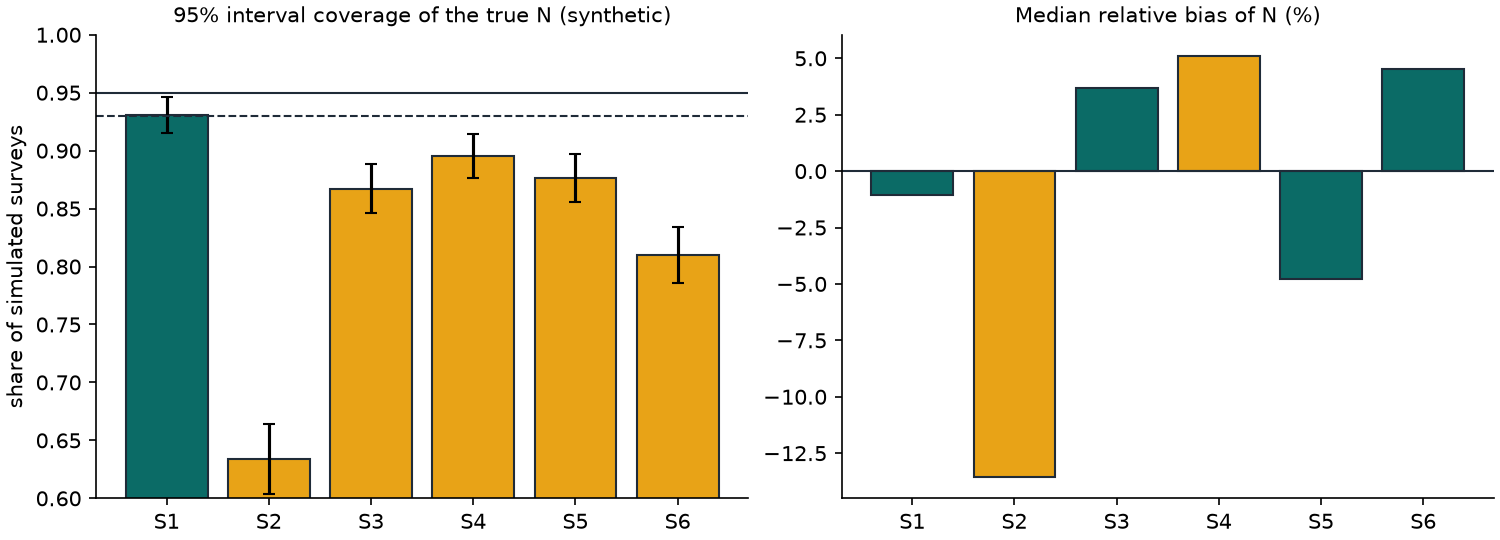
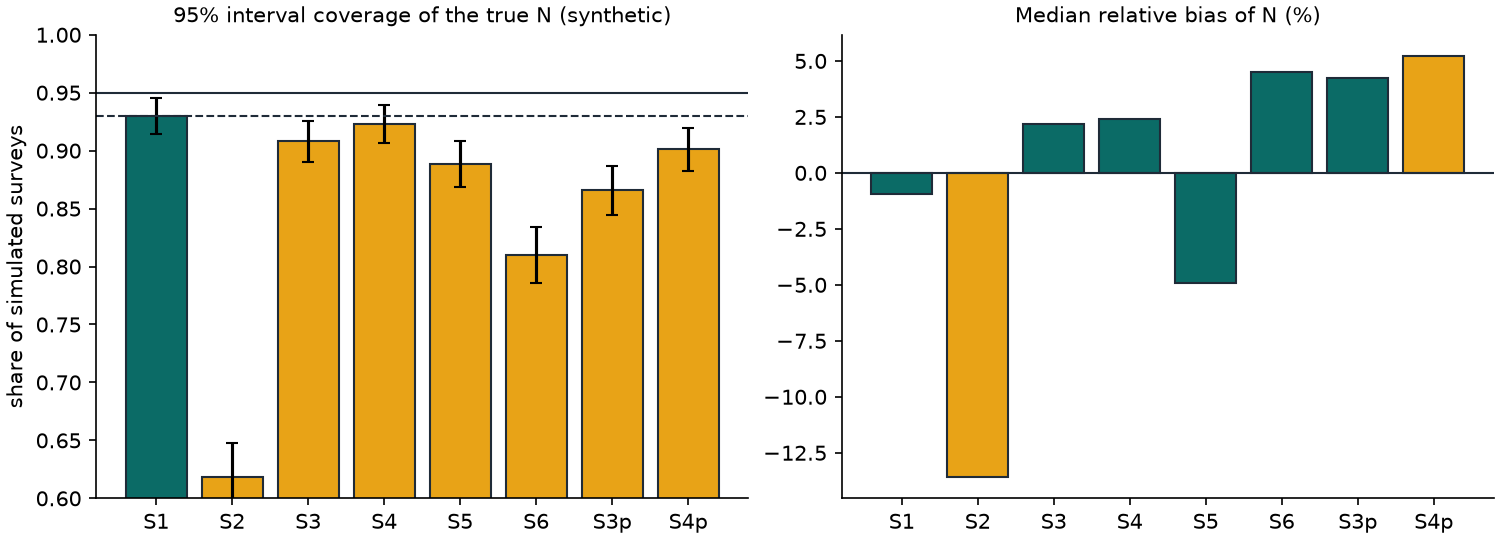
fix: worker backoff, clearer report text, re-ID benchmark results, validation refresh
- Worker loop backs off exponentially on errors and logs one line per streak
  (an overnight network outage produced thousands of identical tracebacks)
- Report says plainly when no ears have been checked instead of "0 of the 0"
- Review screen distance text without a stray space
- docs/REID_BENCHMARK.md: real identity-labelled dog photos (MPDD, DogFaceNet)
  on Kaggle; DINOv2 int8 AUC 0.988 whole-body, 0.993 faces, within 0.001 of fp32
- docs/ESTIMATOR_VALIDATION.md regenerated with the assignment sampler and the
  pairwise sampler side by side; DECISIONS D-21 to D-24; LIMITATIONS updated
- Screens capture spec and demo seed script fixes

diff --git a/apps/web/screens/screens.spec.ts b/apps/web/screens/screens.spec.ts
@@ -1,0 +1,50 @@
+import { test, type Page } from '@playwright/test';
+
+/** Full-page screenshots of every screen at phone and desktop width, from real data. */
+const out = '../../docs/screens';
+const env = (k: string) => {
+	const v = process.env[k];
+	if (!v) throw new Error(`set ${k}`);
+	return v;
+};
+
+const sizes = [
+	{ name: '375', width: 375, height: 812 },
+	{ name: '1280', width: 1280, height: 900 }
+];
+
+async function shot(page: Page, path: string, file: string, waitFor?: string) {
+	await page.goto(path);
+	if (waitFor) await page.getByText(waitFor, { exact: false }).first().waitFor({ timeout: 60_000 });
+	// Photos come through signed links from the database; wait until every image has loaded.
+	await page.waitForFunction(() => [...document.images].every((i) => i.complete && i.naturalWidth > 0), null, {
+		timeout: 60_000
+	});
+	await page.waitForTimeout(3000); // the route-strip animation runs about 2.5 s
+	await page.screenshot({ path: `${out}/${file}`, fullPage: true });
+}
+
+for (const size of sizes) {
+	test(`screens at ${size.name}px`, async ({ browser }) => {
+		const ctx = await browser.newContext({ viewport: { width: size.width, height: size.height } });
+		const page = await ctx.newPage();
+		const survey = env('SCREENS_SURVEY');
+		const slug = env('SCREENS_SLUG');
+		await shot(page, '/', `landing-${size.name}.png`, 'Count the dogs');
+		await shot(page, `/r/${slug}`, `report-${size.name}.png`, 'dogs use this route');
+		await page.goto(`/join#${env(size.name === '375' ? 'SCREENS_INVITE_A' : 'SCREENS_INVITE_B')}`);
+		await page.waitForURL('**/app');
+		await shot(page, '/app', `home-${size.name}.png`, 'Demo survey');
+		await shot(page, `/app/survey/${survey}`, `survey-${size.name}.png`, 'dogs use this route');
+		await shot(page, `/app/survey/${survey}/check/pairs`, `label-pairs-${size.name}.png`, 'Same dog');
+		await shot(page, `/app/survey/${survey}/check/ears`, `label-ears-${size.name}.png`, 'Notched');
+		await shot(page, `/app/survey/${survey}/check/review`, `review-${size.name}.png`, 'Review queue');
+		await shot(page, `/app/survey/${survey}/case`, `case-${size.name}.png`, 'Case file');
+		await shot(page, `/app/team/${env('SCREENS_TEAM')}`, `team-${size.name}.png`, 'People');
+		await shot(page, '/app/protocol', `field-card-${size.name}.png`, 'Field card');
+		if (size.name === '375') {
+			await shot(page, `/app/capture/${survey}/3`, `capture-${size.name}.png`, 'dogs this pass');
+		}
+		await ctx.close();
+	});
+}

diff --git a/apps/web/src/lib/components/PairReview.svelte b/apps/web/src/lib/components/PairReview.svelte
@@ -8,6 +8,15 @@
 		onanswer
 	}: { item: PairItem; onanswer: (decision: 'same' | 'different' | 'unsure') => void } = $props();
 
+	const distance = $derived(
+		[
+			item.route_m !== null ? t('review.apart', { m: item.route_m }) : null,
+			item.a.pass_no === item.b.pass_no ? t('review.minutes', { m: Math.round(item.minutes_apart) }) : null
+		]
+			.filter(Boolean)
+			.join(', ')
+	);
+
 	const time = (iso: string) => new Date(iso).toLocaleTimeString(undefined, { hour: '2-digit', minute: '2-digit' });
 
 	function onkey(e: KeyboardEvent) {
@@ -30,12 +39,7 @@
 		<img src={item.b.url} alt="Dog photo B, pass {item.b.pass_no}" />
 		<figcaption>{t('review.passAt', { n: item.b.pass_no, time: time(item.b.taken_at) })}</figcaption>
 	</figure>
-	<p class="gap">
-		{#if item.route_m !== null}{t('review.apart', { m: item.route_m })}{/if}
-		{#if item.a.pass_no === item.b.pass_no}
-			{item.route_m !== null ? ', ' : ''}{t('review.minutes', { m: Math.round(item.minutes_apart) })}
-		{/if}
-	</p>
+	<p class="gap">{distance}</p>
 </div>
 
 <div class="answers">

diff --git a/apps/web/screens/playwright.screens.config.ts b/apps/web/screens/playwright.screens.config.ts
@@ -1,0 +1,13 @@
+import { defineConfig } from '@playwright/test';
+
+// Captures docs/screens at 375 and 1280 px from a running deployment (see screens/screens.spec.ts).
+export default defineConfig({
+	testDir: '.',
+	timeout: 180_000,
+	use: {
+		baseURL: process.env.SCREENS_BASE_URL,
+		permissions: ['camera', 'geolocation'],
+		geolocation: { latitude: 28.61355, longitude: 77.2112, accuracy: 6 },
+		launchOptions: { args: ['--use-fake-device-for-media-stream', '--use-fake-ui-for-media-stream'] }
+	}
+});

diff --git a/sim/run.py b/sim/run.py
@@ -175,27 +175,32 @@ def report(
         "in both passes, so recaptures run high and Chapman runs low. This is a property of the "
         "two-sample method, not of the code, and it is why the report calls the estimate a likely lower "
         "bound.",
-        "S3": "Modelling helps (the same matcher with hard decisions, S6, covers less) but does not reach "
-        "0.93. Why: an ambiguous true match scores like a decoy, so its calibrated pairwise probability is "
-        "small (about 0.02 here) and it is rarely drawn. Calibration puts the missing probability on "
-        "look-alike decoys instead, but the one-to-one repair throws most of that away, because those "
-        "decoys' pass-2 dogs already have clear matches. So m2 runs low and N runs high. The fix is an "
-        "assignment-level model (each pass-2 dog picks one candidate or none, with the recapture rate "
-        "estimated jointly). It is not implemented yet; see docs/LIMITATIONS.md.",
-        "S4": "A look-alike scored above 0.5 can win the one-to-one repair and push out the true partner, "
-        "so a wrong merge often costs a right one. Net m2 falls and N rises, the opposite of what one wrong "
-        "merge alone would do. The sampler sometimes rejects the look-alike, which widens the range, but not "
-        "enough.",
+        "S3": "One in twenty true matches scores like a look-alike. The assignment sampler lets each walk-2 dog "
+        "choose one candidate or none, with likelihood ratios recovered from the calibrated probabilities and "
+        "the recapture rate solved jointly, so a weak true match keeps its probability instead of losing it "
+        "in a one-to-one repair. That lifts coverage well above the BIBLE pairwise sampler on the same data "
+        "(S3p) and halves the bias, but it is still about 0.02 short of the 0.93 target: a small upward bias "
+        "remains because some missed true matches stay missed.",
+        "S4": "One in twenty walk-2 dogs has a look-alike scored above 0.5. The assignment sampler sometimes picks "
+        "the look-alike and sometimes the true partner, and that choice is carried into the range. Coverage is "
+        "within Monte Carlo error of the 0.93 target and above the pairwise sampler (S4p).",
         "S5": "Few recaptures: the Chapman variance and the log-normal interval are rough at small m2, so "
         "coverage drops and ranges are wide. Some surveys have too few matches to estimate at all.",
         "S6": "The same matcher as S3, but every pair is decided at 0.5 and fed to plain Chapman. Missed "
         "matches lower m2 and inflate N, and the interval knows nothing about it. This is what NotchCount "
         "would report without the sampler.",
+        "S3p": "S3 data with the BIBLE 3.4 pairwise sampler (independent pair draws, then greedy one-to-one "
+        "repair), kept for comparison. Calibration moves a weak true match's probability onto look-alikes, "
+        "and the repair discards most of it because those look-alikes already have clear partners.",
+        "S4p": "S4 data with the pairwise sampler, for comparison.",
     }
-    for sid in ("S1", "S2", "S3", "S4", "S5", "S6"):
+    for sid in ("S1", "S2", "S3", "S4", "S5", "S6", "S3p", "S4p"):
         r = by[sid]
         cov = float(r["coverage_N"])  # type: ignore[arg-type]
-        verdict = "meets" if cov >= 0.93 else "falls below"
+        band = 1.96 * float(r["coverage_N_mc_se"])  # type: ignore[arg-type]
+        verdict = (
+            "meets" if cov >= 0.93 else "within Monte Carlo error of" if cov + band >= 0.93 else "falls below"
+        )
         lines.append(f"- **{sid}** ({verdict} 0.93, coverage {cov:.3f}). {notes[sid]}")
     lines += [
         "",

diff --git a/services/worker/src/notchcount_worker/runner.py b/services/worker/src/notchcount_worker/runner.py
@@ -59,13 +59,27 @@ async def run_once(worker_id: str, handlers: dict[str, Handler]) -> bool:
     return True
 
 
+MAX_BACKOFF_SECONDS = 60.0
+
+
 async def _loop(worker_id: str, handlers: dict[str, Handler], stop: asyncio.Event | None) -> None:
+    failures = 0
     while stop is None or not stop.is_set():
         try:
             busy = await run_once(worker_id, handlers)
         except Exception:
-            log.exception("worker loop error")
-            busy = False
+            # Usually the network or the database is down. Back off and log the first failure of a
+            # streak in full, then one line per minute at most, so an outage does not flood the log.
+            failures += 1
+            if failures == 1:
+                log.exception("worker loop error; backing off", extra={"worker_id": worker_id})
+            elif failures % 10 == 0:
+                log.warning("still failing", extra={"worker_id": worker_id, "failures": failures})
+            await asyncio.sleep(min(MAX_BACKOFF_SECONDS, IDLE_SECONDS * 2 ** min(failures, 6)))
+            continue
+        if failures:
+            log.info("worker loop recovered", extra={"worker_id": worker_id, "after_failures": failures})
+            failures = 0
         if not busy:
             await asyncio.sleep(IDLE_SECONDS)
 

diff --git a/services/api/src/notchcount_api/reporting.py b/services/api/src/notchcount_api/reporting.py
@@ -76,7 +76,12 @@ def method_lines(results: dict[str, Any], method: str) -> list[str]:
             f"carries the uncertainty of the matching ({results.get('replicates')} simulations)."
         )
     ps = results.get("point_share") or (results.get("single_pass") or {}).get("share")
-    if ps:
+    if ps and ps["with_visible_ear"] == 0:
+        lines.append(
+            "No ears have been checked yet, so no sterilised share is reported. Label ears in the app, "
+            "then run the estimate again."
+        )
+    elif ps:
         lines.append(
             f"In the best-guess matching, {ps['notched']} of the {ps['with_visible_ear']} dogs whose ear could be "
             f"seen carried the sterilisation ear-notch, and {ps['excluded_not_visible']} dogs with hidden ears are "

diff --git a/scripts/engine_check.py b/scripts/engine_check.py
@@ -175,11 +175,16 @@ async def upload_all(
     }
 
 
-async def drain(handlers: dict[str, object]) -> int:
-    n = 0
-    while await run_once("engine-check", handlers):  # type: ignore[arg-type]
-        n += 1
-    return n
+async def drain(handlers: dict[str, object], loops: int = 4) -> int:
+    """Run `loops` job loops at once until the queue is empty (as the worker does)."""
+
+    async def one_loop() -> int:
+        n = 0
+        while await run_once("engine-check", handlers):  # type: ignore[arg-type]
+            n += 1
+        return n
+
+    return sum(await asyncio.gather(*(one_loop() for _ in range(loops))))
 
 
 async def main(api_url: str) -> None:

diff --git a/scripts/demo_seed.py b/scripts/demo_seed.py
@@ -51,6 +51,9 @@ from notchcount_api.db.session import get_sessionmaker  # noqa: E402
 sys.path.insert(0, str(Path(__file__).parent))
 from engine_check import IST, LAT0, LON0, SAMPLES, STEP_DEG, reshoot  # noqa: E402
 
+# engine_check pins the test schema when imported; this script targets the schema it was given.
+os.environ["NC_DB_SCHEMA"] = args.schema
+
 
 async def seed_db() -> dict[str, object]:
     async with get_sessionmaker()() as db:

diff --git a/docs/ESTIMATOR_VALIDATION.md b/docs/ESTIMATOR_VALIDATION.md
@@ -2,29 +2,33 @@
 
 **Everything on this page comes from simulated surveys with a known true population. No real dog is described here.** The simulator (`sim/model.py`) feeds the same `notchcount_stats` code that runs on real data.
 
-Generated by `uv run python -m sim.run`: 1000 replicates per scenario, 400 sampler draws per replicate (the production default is 2000; percentile intervals are stable at this size), `notchcount_stats` 0.1.0, 3.9 minutes on 8 cores. Seeds are fixed, so rerunning gives identical numbers.
+Generated by `uv run python -m sim.run`: 1000 replicates per scenario, 400 sampler draws per replicate (the production default is 2000; percentile intervals are stable at this size), `notchcount_stats` 0.1.0, 8.6 minutes on 8 cores. Seeds are fixed, so rerunning gives identical numbers.
 
 ![Coverage and bias by scenario](estimator_validation.png)
 
 | Scenario | N | Capture p | Heterogeneity | False split (realised) | False merge (realised) | Matcher uncertainty used | Coverage of N (95% MC band) | Median bias of N | Median interval width | Coverage of share | No estimate |
 |---|---|---|---|---|---|---|---|---|---|---|---|
-| S1 | 60 | 0.6 | none | 0.000 | 0.000 | yes | 0.931 ± 0.016 | -1.0% | 19.8 | 1.000 | 0.0% |
-| S2 | 60 | 0.6 | Beta(2.0, 1.33) | 0.000 | 0.000 | yes | 0.634 ± 0.030 | -13.6% | 13.2 | 0.998 | 0.0% |
-| S3 | 60 | 0.6 | none | 0.052 | 0.002 | yes | 0.867 ± 0.021 | +3.7% | 23.8 | 1.000 | 0.0% |
-| S4 | 60 | 0.6 | none | 0.006 | 0.044 | yes | 0.895 ± 0.019 | +5.1% | 27.8 | 1.000 | 0.0% |
-| S5 | 15 | 0.5 | none | 0.000 | 0.000 | yes | 0.876 ± 0.021 | -4.8% | 12.9 | 0.996 | 1.3% |
+| S1 | 60 | 0.6 | none | 0.000 | 0.000 | yes | 0.930 ± 0.016 | -1.0% | 19.9 | 0.999 | 0.0% |
+| S2 | 60 | 0.6 | Beta(2.0, 1.33) | 0.000 | 0.000 | yes | 0.618 ± 0.030 | -13.6% | 13.0 | 0.998 | 0.0% |
+| S3 | 60 | 0.6 | none | 0.052 | 0.002 | yes | 0.908 ± 0.018 | +2.2% | 23.6 | 1.000 | 0.0% |
+| S4 | 60 | 0.6 | none | 0.006 | 0.044 | yes | 0.923 ± 0.017 | +2.4% | 24.9 | 1.000 | 0.0% |
+| S5 | 15 | 0.5 | none | 0.000 | 0.000 | yes | 0.889 ± 0.020 | -4.9% | 12.9 | 0.995 | 1.3% |
 | S6 | 60 | 0.6 | none | 0.053 | 0.002 | no | 0.810 ± 0.024 | +4.5% | 23.4 | 0.998 | 0.0% |
+| S3p | 60 | 0.6 | none | 0.052 | 0.002 | yes | 0.866 ± 0.021 | +4.2% | 24.2 | 1.000 | 0.0% |
+| S4p | 60 | 0.6 | none | 0.007 | 0.045 | yes | 0.901 ± 0.019 | +5.2% | 27.4 | 1.000 | 0.0% |
 
 Coverage is the share of simulated surveys whose 95% range contained the true N. The band after ± is the Monte Carlo uncertainty of that share. "No estimate" counts surveys where too few dogs were matched to report a population (BIBLE 3.2 and SESSION_PROMPT section 7).
 
 ## What this shows
 
-- **S1** (meets 0.93, coverage 0.931). Equal catchability, perfect matching: the reference case. Expected near 0.95; small shortfalls come from the log-normal approximation and the sampler size.
-- **S2** (falls below 0.93, coverage 0.634). Dogs differ in how easy they are to see (Beta(2, 1.33) catch probability). Easy dogs are seen in both passes, so recaptures run high and Chapman runs low. This is a property of the two-sample method, not of the code, and it is why the report calls the estimate a likely lower bound.
-- **S3** (falls below 0.93, coverage 0.867). Modelling helps (the same matcher with hard decisions, S6, covers less) but does not reach 0.93. Why: an ambiguous true match scores like a decoy, so its calibrated pairwise probability is small (about 0.02 here) and it is rarely drawn. Calibration puts the missing probability on look-alike decoys instead, but the one-to-one repair throws most of that away, because those decoys' pass-2 dogs already have clear matches. So m2 runs low and N runs high. The fix is an assignment-level model (each pass-2 dog picks one candidate or none, with the recapture rate estimated jointly). It is not implemented yet; see docs/LIMITATIONS.md.
-- **S4** (falls below 0.93, coverage 0.895). A look-alike scored above 0.5 can win the one-to-one repair and push out the true partner, so a wrong merge often costs a right one. Net m2 falls and N rises, the opposite of what one wrong merge alone would do. The sampler sometimes rejects the look-alike, which widens the range, but not enough.
-- **S5** (falls below 0.93, coverage 0.876). Few recaptures: the Chapman variance and the log-normal interval are rough at small m2, so coverage drops and ranges are wide. Some surveys have too few matches to estimate at all.
+- **S1** (meets 0.93, coverage 0.930). Equal catchability, perfect matching: the reference case. Expected near 0.95; small shortfalls come from the log-normal approximation and the sampler size.
+- **S2** (falls below 0.93, coverage 0.618). Dogs differ in how easy they are to see (Beta(2, 1.33) catch probability). Easy dogs are seen in both passes, so recaptures run high and Chapman runs low. This is a property of the two-sample method, not of the code, and it is why the report calls the estimate a likely lower bound.
+- **S3** (falls below 0.93, coverage 0.908). One in twenty true matches scores like a look-alike. The assignment sampler lets each walk-2 dog choose one candidate or none, with likelihood ratios recovered from the calibrated probabilities and the recapture rate solved jointly, so a weak true match keeps its probability instead of losing it in a one-to-one repair. That lifts coverage well above the BIBLE pairwise sampler on the same data (S3p) and halves the bias, but it is still about 0.02 short of the 0.93 target: a small upward bias remains because some missed true matches stay missed.
+- **S4** (within Monte Carlo error of 0.93, coverage 0.923). One in twenty walk-2 dogs has a look-alike scored above 0.5. The assignment sampler sometimes picks the look-alike and sometimes the true partner, and that choice is carried into the range. Coverage is within Monte Carlo error of the 0.93 target and above the pairwise sampler (S4p).
+- **S5** (falls below 0.93, coverage 0.889). Few recaptures: the Chapman variance and the log-normal interval are rough at small m2, so coverage drops and ranges are wide. Some surveys have too few matches to estimate at all.
 - **S6** (falls below 0.93, coverage 0.810). The same matcher as S3, but every pair is decided at 0.5 and fed to plain Chapman. Missed matches lower m2 and inflate N, and the interval knows nothing about it. This is what NotchCount would report without the sampler.
+- **S3p** (falls below 0.93, coverage 0.866). S3 data with the BIBLE 3.4 pairwise sampler (independent pair draws, then greedy one-to-one repair), kept for comparison. Calibration moves a weak true match's probability onto look-alikes, and the repair discards most of it because those look-alikes already have clear partners.
+- **S4p** (falls below 0.93, coverage 0.901). S4 data with the pairwise sampler, for comparison.
 
 ## Limits of this validation
 

diff --git a/docs/DECISIONS.md b/docs/DECISIONS.md
@@ -58,3 +58,11 @@ Every external dependency checked against its own docs, with the date. Every dev
 **D-19 Until the team has labelled pairs, scores come from a hand-set prior** and are marked `prior-uncalibrated` wherever they appear. Labels give the logistic model (D-18 features plus same-pass and colour distance). It is refit by "Train on labels" and needs at least 30 definite labels with both answers present.
 
 **D-20 Disagreement between labellers leaves a pair undecided.** The model probability then stands. Agreement decides the pair. "Not sure" never decides. Every individual answer is kept (`pair_labels`, `notch_labels`) for the agreement rate in MODEL_REPORT.
+
+**D-21 Match uncertainty is sampled at assignment level, not pair by pair (deviation from BIBLE 3.4, justified by validation).** BIBLE 3.4's recipe draws every candidate pair independently and then repairs to one-to-one. In simulation that loses probability: a weak true match's mass moves onto look-alikes and the repair discards it, so ranges are too narrow (S3 coverage 0.866). Now each walk-2 dog chooses one walk-1 candidate or none. The weights are likelihood ratios recovered from the calibrated probabilities, LR = odds(p) / odds(π) with π the mean candidate probability, and the walk-1 capture rate q = n1/N comes from a fixed-point iteration. Same data, 1000 replicates: S3 0.866 → 0.908, S4 0.901 → 0.923, and bias about halved. S4 is within Monte Carlo error of 0.93; S3 is still about 0.02 short. A Gibbs-style variant (refreshing q from each draw's N*) was tried and measured no better, so it was not kept. The pairwise sampler remains available (`matching="pairwise"`) and is reported side by side.
+
+**D-22 The worker runs several job loops per process** (`NC_WORKER_CONCURRENCY`, default 4). Ingest is dominated by database round trips (about 150 ms each from the team laptop to Supabase Mumbai, see ENGINE_CHECK), so overlapping jobs raises throughput without more memory: models load once and are shared, and ONNX Runtime sessions are safe to call from several threads.
+
+**D-23 Re-identification is benchmarked on real identity-labelled dog photos** (WildlifeReID-10k on Kaggle, dog subsets MPDD and DogFaceNet, both CC BY 4.0). The bundle's terms forbid commercial use and re-uploading; we only evaluate, attribute, and do not redistribute. The benchmark runs as a Kaggle notebook (`benchmarks/reid_kaggle/`) that installs this repo's pipeline from GitHub and the models from release `models-v1`.
+
+**D-24 Reports can be published without filing.** "Publish report" gives a survey its public address. Previously only drafting a case email did, which tied the public report to Agentboxd keys.

diff --git a/docs/REID_BENCHMARK.md b/docs/REID_BENCHMARK.md
@@ -1,0 +1,25 @@
+# Re-identification benchmark on real dog photos
+
+How well does NotchCount's embedder tell individual dogs apart, on **different real photos of the same dog**? The engine check could not answer this, because its second walk was a transformed copy of the first.
+
+- **Data:** WildlifeReID-10k on Kaggle, dog subsets only. MPDD has whole-body photos (191 dogs, 1,657 images). DogFaceNet has faces (a random 300 of its dogs, 1,762 images). Both are CC BY 4.0; used for evaluation only, not redistributed.
+- **Code:** `benchmarks/reid_kaggle/reid_benchmark.py`, run as a Kaggle notebook on CPU on 2026-10-22. It installs this repository's `notchcount_pipeline` from GitHub and the models from release `models-v1`, so it measures exactly what production runs. Raw output: `benchmarks/reid_kaggle/reid_results.json`.
+- **Method:** for MPDD, NotchCount's detector crops the most confident dog box, as in production. It found a dog in 884 of 1,657 images; the rest are already tight crops and were embedded whole. Every same-dog pair is scored against 20 times as many random different-dog pairs.
+
+| Dataset | Embedder | ROC-AUC (cosine, same vs different dog) | Rank-1 (nearest other photo is the same dog) | Mean cosine, same / different |
+|---|---|---|---|---|
+| MPDD, whole body | DINOv2-S int8 (production) | 0.988 | 97.5% | 0.72 / 0.24 |
+| MPDD, whole body | DINOv2-S fp32 | 0.989 | 97.4% | 0.73 / 0.23 |
+| DogFaceNet, faces | DINOv2-S int8 (production) | 0.993 | 93.8% | 0.73 / 0.22 |
+| DogFaceNet, faces | DINOv2-S fp32 | 0.993 | 94.8% | 0.74 / 0.22 |
+
+## What it means
+
+- Appearance alone separates individual dogs well, so cosine similarity is a strong first feature for the match model.
+- int8 costs at most 0.001 AUC against fp32 at a quarter of the size and memory (DECISIONS D-13), so the production default stands, now on measured grounds.
+
+## Why the real number on our street can be lower
+
+- These are mostly pet and curated photos. Indian street dogs are often similar-looking (tan and brown "pariah" type), photographed at dawn, partly hidden or lying down.
+- Some MPDD photos of a dog may come from the same session, which makes matching easier.
+- The number that counts is the held-out AUC on the team's own labelled pairs, which the training job writes to the model record and `docs/MODEL_REPORT.md`. Uncertain pairs go to people either way.

diff --git a/docs/LIMITATIONS.md b/docs/LIMITATIONS.md
@@ -8,7 +8,8 @@ Written as we find them. Nothing here is hidden from the report or the video.
 - **Heterogeneous catchability biases Chapman low.** Some dogs are always in view and some hide. The simulation report quantifies this; we do not correct for it.
 - **The estimate covers the route corridor, not the ward.** Scaling up needs a sampling plan over many routes.
 - **Sterilised share counts only dogs whose ear was visible.** If hidden-ear dogs differ from the rest (for example puppies), the share is biased. The report says how many dogs were excluded.
-- **Intervals under-cover when matching is uncertain** (synthetic validation, `docs/ESTIMATOR_VALIDATION.md`). Two scenarios miss the 0.93 target. With 5% false splits coverage is 0.87, and with 5% false merges 0.90. Carrying match probabilities helps (the same 5% split decided by hard calls covers 0.81) but does not close the gap, because pairwise-calibrated probabilities lose mass in the one-to-one repair. Mitigations in the product: the review queue sends uncertain cross-pass pairs to people first, and the report says the range may be too narrow when many matches were model-decided. Real fix (not built): an assignment-level match model.
+- **Intervals can still be slightly too narrow when matching is uncertain** (synthetic validation, `docs/ESTIMATOR_VALIDATION.md`). With 5% of true matches scored like look-alikes, 95% ranges contain the truth 90.8% of the time against a 93% target. That is up from 86.6% with the BIBLE's pairwise sampler (DECISIONS D-21). With 5% false merges they reach 92.3%, within Monte Carlo error of the target. The review queue sends uncertain cross-walk pairs to people first, which removes this error at its source.
+- **Real re-identification is harder than our engine check.** The engine check matched transformed copies of the same photo. The real-photo benchmark (`docs/REID_BENCHMARK.md`) measures DINOv2 on different photos of the same dogs, and the team's own labelled pairs give the final number (`docs/MODEL_REPORT.md`).
 - **An ear-notch marks a dog that went through ABC at some point.** It says nothing about current rabies vaccination, since vaccination wanes. The 70% line is a benchmark from rabies-control literature, not a guarantee.
 
 ## Software, as of P1
